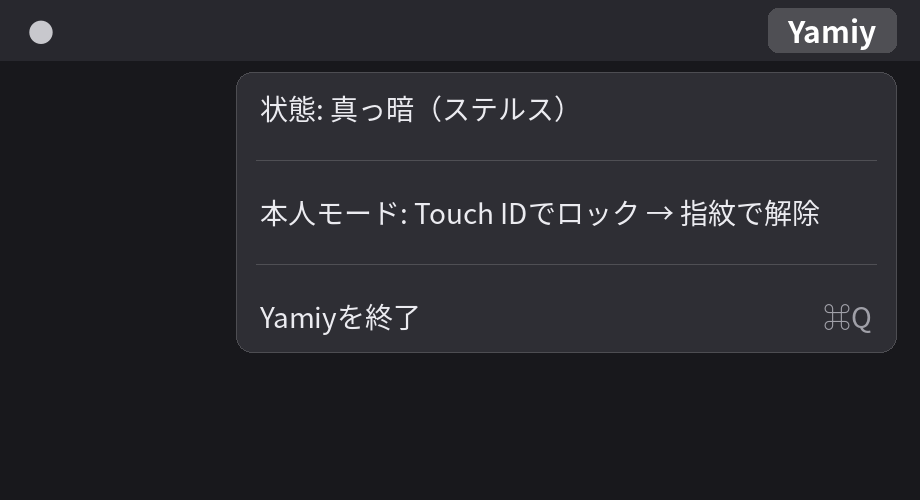
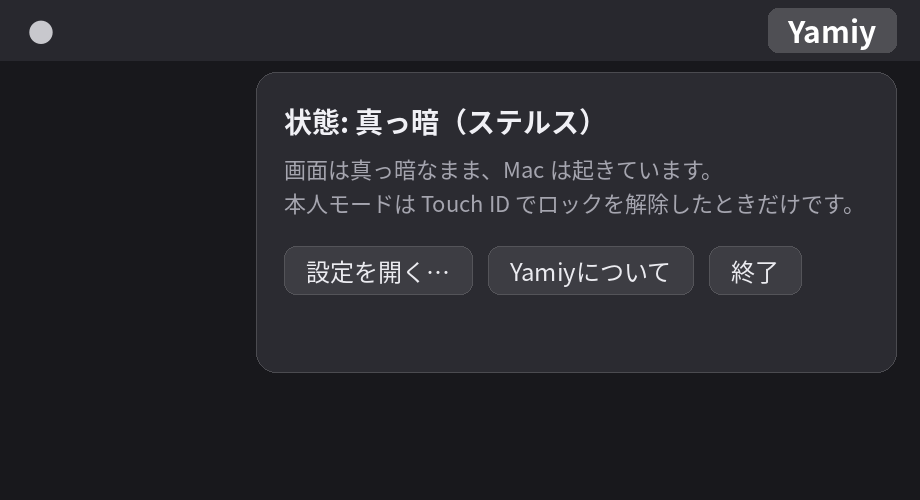
Yamiy 0.2.0: Kanary-style panel and settings window

diff --git a/Sources/main.swift b/Sources/main.swift
@@ -1,6 +1,7 @@
 import AppKit
 import Foundation
 import CoreGraphics
+import ServiceManagement
 
 // Yamiy — keeps your Mac's built-in display dark and the brightness keys
 // dead while agents (or anything else) work on the machine, and gives the
@@ -9,13 +10,17 @@ import CoreGraphics
 // STEALTH (default): brightness held at 0 (re-asserted every 0.15s),
 //   brightness keys remapped to no-op via hidutil (re-asserted every 10s).
 // OWNER: entered on screen unlock (Touch ID / password). Keys restored,
-//   brightness set to a comfortable level. Returns to STEALTH on screen
-//   lock, or after 300s without any input.
+//   brightness set to the level chosen in Settings. Returns to STEALTH on
+//   screen lock, or after the configured idle time without any input.
 //
 // The display itself is never put to sleep: screen capture and remote
 // control keep working, because brightness and the framebuffer are
 // independent. Brightness uses the private DisplayServices API, which is
 // why Yamiy is distributed outside the Mac App Store.
+//
+// UI shape follows the conventions of small macOS menu-bar utilities:
+// the status icon opens a compact panel with the current state and the
+// main actions, and Settings lives in its own window.
 
 // MARK: - Brightness (DisplayServices, private API)
 
@@ -67,6 +72,187 @@ func yamiyLog(_ s: String) {
     }
 }
 
+// MARK: - Settings
+
+final class Prefs {
+    static let shared = Prefs()
+    private let d = UserDefaults.standard
+    private init() {
+        d.register(defaults: [
+            "ownerBrightness": 0.65,
+            "idleSeconds": 300.0,
+            "launchAtLogin": false,
+        ])
+    }
+    var ownerBrightness: Float {
+        get { Float(d.double(forKey: "ownerBrightness")) }
+        set { d.set(Double(newValue), forKey: "ownerBrightness") }
+    }
+    var idleSeconds: Double {
+        get { d.double(forKey: "idleSeconds") }
+        set { d.set(newValue, forKey: "idleSeconds") }
+    }
+    var launchAtLogin: Bool {
+        get { d.bool(forKey: "launchAtLogin") }
+        set { d.set(newValue, forKey: "launchAtLogin") }
+    }
+}
+
+// MARK: - Panel (status icon popover)
+
+final class PanelViewController: NSViewController {
+    let statusLabel = NSTextField(labelWithString: "")
+    weak var delegate: AppDelegate?
+
+    override func loadView() {
+        let root = NSView()
+        root.frame = NSRect(x: 0, y: 0, width: 320, height: 168)
+
+        statusLabel.font = .systemFont(ofSize: 13, weight: .semibold)
+        let desc = NSTextField(wrappingLabelWithString:
+            "画面は真っ暗なまま、Mac は起きています。本人モードは Touch ID でロックを解除したときだけです。")
+        desc.font = .systemFont(ofSize: 11)
+        desc.textColor = .secondaryLabelColor
+
+        let settingsBtn = NSButton(title: "設定を開く…", target: nil, action: nil)
+        settingsBtn.bezelStyle = .rounded
+        settingsBtn.target = self
+        settingsBtn.action = #selector(openSettings)
+        let aboutBtn = NSButton(title: "Yamiyについて", target: nil, action: nil)
+        aboutBtn.bezelStyle = .rounded
+        aboutBtn.target = self
+        aboutBtn.action = #selector(openAbout)
+        let quitBtn = NSButton(title: "終了", target: nil, action: nil)
+        quitBtn.bezelStyle = .rounded
+        quitBtn.target = self
+        quitBtn.action = #selector(quitApp)
+
+        let buttons = NSStackView(views: [settingsBtn, aboutBtn, quitBtn])
+        buttons.orientation = .horizontal
+        buttons.spacing = 8
+
+        let stack = NSStackView(views: [statusLabel, desc, buttons])
+        stack.orientation = .vertical
+        stack.alignment = .leading
+        stack.spacing = 10
+        stack.translatesAutoresizingMaskIntoConstraints = false
+        root.addSubview(stack)
+        NSLayoutConstraint.activate([
+            stack.leadingAnchor.constraint(equalTo: root.leadingAnchor, constant: 14),
+            stack.trailingAnchor.constraint(equalTo: root.trailingAnchor, constant: -14),
+            stack.topAnchor.constraint(equalTo: root.topAnchor, constant: 12),
+        ])
+        self.view = root
+    }
+
+    @objc func openSettings() { delegate?.showSettings() }
+    @objc func openAbout() {
+        NSApp.activate(ignoringOtherApps: true)
+        NSApp.orderFrontStandardAboutPanel(nil)
+    }
+    @objc func quitApp() { NSApp.terminate(nil) }
+}
+
+// MARK: - Settings window
+
+final class SettingsWindowController: NSWindowController, NSWindowDelegate {
+    private let brightnessSlider = NSSlider(value: 0.65, minValue: 0.3, maxValue: 1.0, target: nil, action: nil)
+    private let brightnessValue = NSTextField(labelWithString: "")
+    private let idleSlider = NSSlider(value: 300, minValue: 60, maxValue: 900, target: nil, action: nil)
+    private let idleValue = NSTextField(labelWithString: "")
+    private let loginCheckbox = NSButton(checkboxWithTitle: "ログイン時に起動", target: nil, action: nil)
+
+    convenience init() {
+        let window = NSWindow(
+            contentRect: NSRect(x: 0, y: 0, width: 380, height: 190),
+            styleMask: [.titled, .closable],
+            backing: .buffered, defer: false)
+        window.title = "Yamiy 設定"
+        window.isReleasedWhenClosed = false
+        self.init(window: window)
+        buildContent()
+        refresh()
+    }
+
+    private func row(_ label: String, _ control: NSView, _ value: NSTextField? = nil) -> NSStackView {
+        let l = NSTextField(labelWithString: label)
+        l.font = .systemFont(ofSize: 12)
+        l.alignment = .right
+        l.widthAnchor.constraint(equalToConstant: 150).isActive = true
+        var views: [NSView] = [l, control]
+        if let v = value { views.append(v) }
+        let s = NSStackView(views: views)
+        s.orientation = .horizontal
+        s.spacing = 8
+        s.alignment = .centerY
+        control.widthAnchor.constraint(equalToConstant: 140).isActive = true
+        return s
+    }
+
+    private func buildContent() {
+        guard let content = window?.contentView else { return }
+        brightnessSlider.target = self
+        brightnessSlider.action = #selector(brightnessChanged)
+        idleSlider.target = self
+        idleSlider.action = #selector(idleChanged)
+        loginCheckbox.target = self
+        loginCheckbox.action = #selector(loginChanged)
+
+        let stack = NSStackView(views: [
+            row("本人モードの明るさ", brightnessSlider, brightnessValue),
+            row("無操作で真っ暗に戻るまで", idleSlider, idleValue),
+            row("", loginCheckbox),
+        ])
+        stack.orientation = .vertical
+        stack.alignment = .leading
+        stack.spacing = 14
+        stack.translatesAutoresizingMaskIntoConstraints = false
+        content.addSubview(stack)
+        NSLayoutConstraint.activate([
+            stack.leadingAnchor.constraint(equalTo: content.leadingAnchor, constant: 16),
+            stack.topAnchor.constraint(equalTo: content.topAnchor, constant: 16),
+        ])
+        window?.delegate = self
+    }
+
+    func refresh() {
+        brightnessSlider.doubleValue = Double(Prefs.shared.ownerBrightness)
+        idleSlider.doubleValue = Prefs.shared.idleSeconds
+        loginCheckbox.state = (SMAppService.mainApp.status == .enabled) ? .on : .off
+        updateLabels()
+    }
+
+    private func updateLabels() {
+        brightnessValue.stringValue = "\(Int((brightnessSlider.doubleValue * 100).rounded()))%"
+        idleValue.stringValue = "\(Int(idleSlider.doubleValue / 60))分"
+    }
+
+    @objc private func brightnessChanged() {
+        Prefs.shared.ownerBrightness = Float(brightnessSlider.doubleValue)
+        updateLabels()
+    }
+
+    @objc private func idleChanged() {
+        Prefs.shared.idleSeconds = idleSlider.doubleValue
+        updateLabels()
+    }
+
+    @objc private func loginChanged() {
+        do {
+            if loginCheckbox.state == .on {
+                try SMAppService.mainApp.register()
+            } else {
+                try SMAppService.mainApp.unregister()
+            }
+            Prefs.shared.launchAtLogin = (loginCheckbox.state == .on)
+            yamiyLog("launch at login -> \(loginCheckbox.state == .on)")
+        } catch {
+            yamiyLog("launch at login change failed: \(error)")
+            refresh()
+        }
+    }
+}
+
 // MARK: - App
 
 enum Mode { case stealth, owner }
@@ -74,11 +260,12 @@ enum Mode { case stealth, owner }
 final class AppDelegate: NSObject, NSApplicationDelegate {
     var mode: Mode = .stealth
     var lastMapAssert = Date.distantPast
-    let ownerBrightness: Float = 0.65
-    let idleSecondsToStealth: Double = 300
 
     var statusItem: NSStatusItem!
-    var modeItem: NSMenuItem!
+    let panel = PanelViewController()
+    var panelWindow: NSPanel?
+    var outsideClickMonitor: Any?
+    var settingsController: SettingsWindowController?
 
     func applicationDidFinishLaunching(_ notification: Notification) {
         NSApp.setActivationPolicy(.accessory)
@@ -94,22 +281,72 @@ final class AppDelegate: NSObject, NSApplicationDelegate {
     func applicationWillTerminate(_ notification: Notification) {
         // Leave the machine usable: keys back, brightness back.
         enableBrightnessKeys()
-        setBrightness(ownerBrightness)
+        setBrightness(Prefs.shared.ownerBrightness)
         yamiyLog("Yamiy terminated; keys and brightness restored")
     }
 
     func setupStatusItem() {
         statusItem = NSStatusBar.system.statusItem(withLength: NSStatusItem.variableLength)
         statusItem.button?.title = "Yamiy"
-        let menu = NSMenu()
-        modeItem = NSMenuItem(title: "", action: nil, keyEquivalent: "")
-        menu.addItem(modeItem)
-        menu.addItem(.separator())
-        let hint = NSMenuItem(title: "本人モード: Touch IDでロック → 指紋で解除", action: nil, keyEquivalent: "")
-        menu.addItem(hint)
-        menu.addItem(.separator())
-        menu.addItem(NSMenuItem(title: "Yamiyを終了", action: #selector(NSApplication.terminate(_:)), keyEquivalent: "q"))
-        statusItem.menu = menu
+        statusItem.button?.target = self
+        statusItem.button?.action = #selector(togglePanel)
+        panel.delegate = self
+    }
+
+    // The panel is a borderless floating window hung under the status
+    // icon, like other small menu-bar utilities: it opens on icon click,
+    // and closes on icon re-click or on any click outside it.
+    func makePanelWindow() -> NSPanel {
+        let w = NSPanel(contentRect: NSRect(x: 0, y: 0, width: 320, height: 168),
+                        styleMask: [.borderless, .nonactivatingPanel],
+                        backing: .buffered, defer: false)
+        w.level = .floating
+        w.isOpaque = false
+        w.backgroundColor = .windowBackgroundColor
+        w.hasShadow = true
+        w.contentViewController = panel
+        return w
+    }
+
+    @objc func togglePanel() {
+        if let w = panelWindow, w.isVisible {
+            closePanel()
+            return
+        }
+        guard let button = statusItem.button, let buttonWindow = button.window else { return }
+        if panelWindow == nil { panelWindow = makePanelWindow() }
+        guard let w = panelWindow else { return }
+        let buttonRect = buttonWindow.convertToScreen(button.frame)
+        let x = buttonRect.maxX - w.frame.width
+        let y = buttonRect.minY - w.frame.height - 4
+        w.setFrameOrigin(NSPoint(x: x, y: y))
+        w.orderFrontRegardless()
+        outsideClickMonitor = NSEvent.addGlobalMonitorForEvents(matching: [.leftMouseDown, .rightMouseDown]) { [weak self] event in
+            guard let self, let w = self.panelWindow, w.isVisible else { return }
+            let p = NSEvent.mouseLocation
+            if !w.frame.contains(p), let bw = self.statusItem.button?.window,
+               !bw.convertToScreen(self.statusItem.button!.frame).contains(p) {
+                self.closePanel()
+            }
+        }
+        yamiyLog("panel opened")
+    }
+
+    func closePanel() {
+        panelWindow?.orderOut(nil)
+        if let m = outsideClickMonitor {
+            NSEvent.removeMonitor(m)
+            outsideClickMonitor = nil
+        }
+    }
+
+    func showSettings() {
+        closePanel()
+        if settingsController == nil { settingsController = SettingsWindowController() }
+        settingsController?.refresh()
+        settingsController?.window?.center()
+        NSApp.activate(ignoringOtherApps: true)
+        settingsController?.showWindow(nil)
     }
 
     func setupObservers() {
@@ -127,15 +364,15 @@ final class AppDelegate: NSObject, NSApplicationDelegate {
         disableBrightnessKeys()
         lastMapAssert = Date()
         setBrightness(0.0)
-        modeItem?.title = "状態: 真っ暗（ステルス）"
+        panel.statusLabel.stringValue = "状態: 真っ暗（ステルス）"
         yamiyLog("-> STEALTH (\(why))")
     }
 
     func enterOwner(_ why: String) {
         mode = .owner
         enableBrightnessKeys()
-        setBrightness(ownerBrightness)
-        modeItem?.title = "状態: 本人モード"
+        setBrightness(Prefs.shared.ownerBrightness)
+        panel.statusLabel.stringValue = "状態: 本人モード"
         yamiyLog("-> OWNER (\(why))")
     }
 
@@ -150,30 +387,26 @@ final class AppDelegate: NSObject, NSApplicationDelegate {
         case .owner:
             let idle = CGEventSource.secondsSinceLastEventType(
                 .hidSystemState, eventType: CGEventType(rawValue: UInt32.max)!)
-            if idle > idleSecondsToStealth { enterStealth("idle \(Int(idleSecondsToStealth))s") }
+            if idle > Prefs.shared.idleSeconds { enterStealth("idle \(Int(Prefs.shared.idleSeconds))s") }
         }
     }
 }
 
 // Restore the machine on SIGTERM/SIGINT too: NSApplication's
 // applicationWillTerminate does not run when the process is killed.
+func restoreAndExit() -> Never {
+    enableBrightnessKeys()
+    setBrightness(Prefs.shared.ownerBrightness)
+    yamiyLog("Yamiy stopped by signal; keys and brightness restored")
+    exit(0)
+}
 signal(SIGTERM, SIG_IGN)
 signal(SIGINT, SIG_IGN)
 let sigSrc = DispatchSource.makeSignalSource(signal: SIGTERM, queue: .main)
-sigSrc.setEventHandler {
-    enableBrightnessKeys()
-    setBrightness(0.65)
-    yamiyLog("Yamiy stopped by signal; keys and brightness restored")
-    exit(0)
-}
+sigSrc.setEventHandler { restoreAndExit() }
 sigSrc.resume()
 let sigSrc2 = DispatchSource.makeSignalSource(signal: SIGINT, queue: .main)
-sigSrc2.setEventHandler {
-    enableBrightnessKeys()
-    setBrightness(0.65)
-    yamiyLog("Yamiy stopped by signal; keys and brightness restored")
-    exit(0)
-}
+sigSrc2.setEventHandler { restoreAndExit() }
 sigSrc2.resume()
 
 let delegate = AppDelegate()
